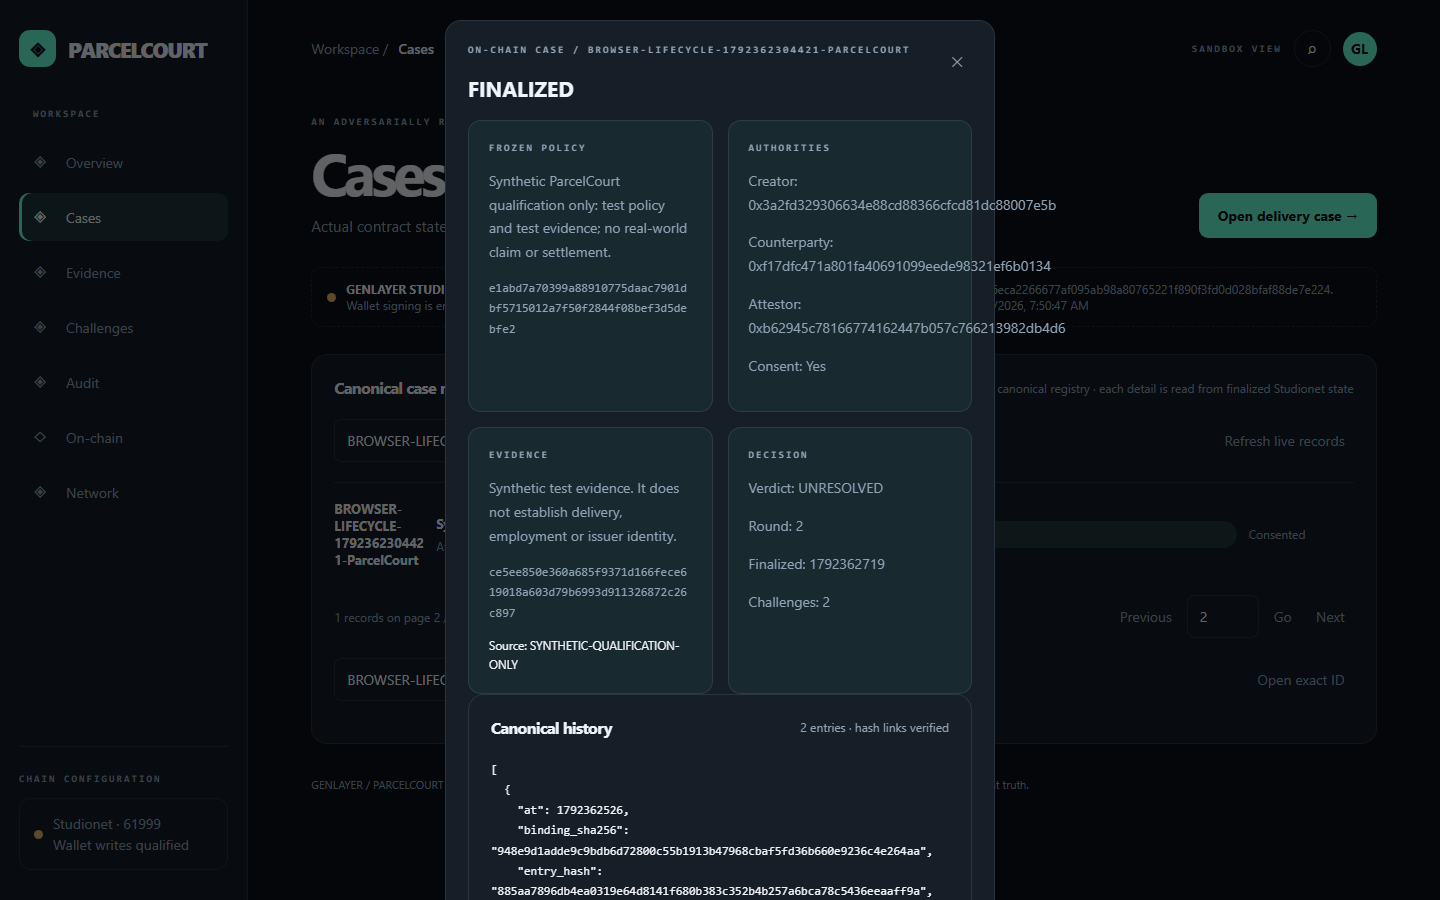
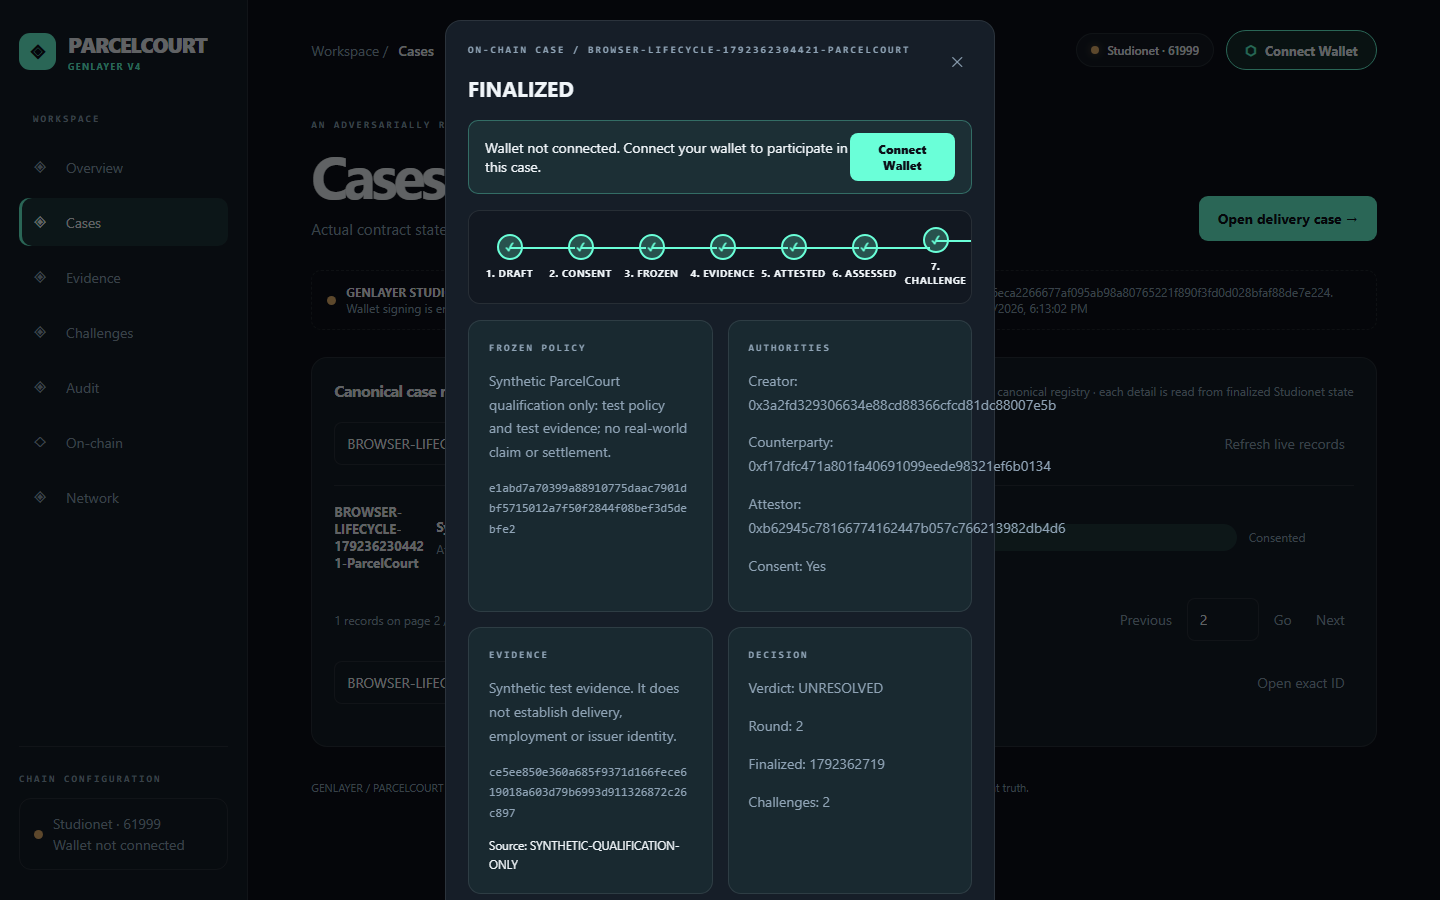
feat(landing): integrate Framer-inspired dark Bento landing page and telemetry

diff --git a/web/app.js b/web/app.js
@@ -277,6 +277,212 @@ function loadingNote(){
   if(live.error) return `<div class="blank" role="alert">Live read failed: ${esc(live.error)}. There is no simulated fallback.</div>`;
   return '';
 }
+
+function renderLandingPage(cases, counts) {
+  const safeEmpty = loadingNote();
+  const recentCases = cases.slice().reverse().slice(0, 4);
+
+  return `
+    <div class="landing-container">
+      <!-- Sawad / Framer Style Hero -->
+      <section class="landing-hero">
+        <div class="hero-badge">
+          <span class="signal-dot connected"></span>
+          <span>GenLayer Intelligent Contract · Studionet 61999</span>
+        </div>
+        <h1 class="hero-title">
+          Adversarial delivery & dispute resolution <em>powered by GenVM AI consensus</em>
+        </h1>
+        <p class="hero-desc">
+          An immutable multi-party arbitration ledger on GenLayer. Freeze service policies, commit cryptographic delivery evidence, and invoke non-deterministic LLM validator consensus with hash-linked finality.
+        </p>
+        <div class="hero-cta-group">
+          <button class="hero-cta-primary" id="landing-launch-workspace">
+            Open Case Workspace →
+          </button>
+          <button class="hero-cta-secondary" id="landing-wallet-trigger">
+            Connect Web3 Wallet
+          </button>
+          <button class="hero-cta-secondary" id="landing-view-all-cases">
+            View Live Registry (${counts.total})
+          </button>
+          <a class="hero-cta-link" href="https://explorer-studio.genlayer.com/address/${esc(ADDRESS)}" target="_blank" rel="noopener noreferrer">
+            Verified Contract ↗
+          </a>
+        </div>
+      </section>
+
+      <!-- Bento Grid System -->
+      <div class="bento-grid">
+        <div class="bento-card bento-col-4 bento-card-glow">
+          <div class="bento-header">
+            <span class="eyebrow">CANONICAL STATE</span>
+            <div class="bento-icon">⬡</div>
+          </div>
+          <div>
+            <div class="bento-val">${counts.total}</div>
+            <div class="bento-label">Recorded Cases</div>
+          </div>
+          <p class="bento-desc">Live on-chain delivery agreements stored immutably on Studionet storage slots.</p>
+        </div>
+
+        <div class="bento-card bento-col-4 bento-card-glow">
+          <div class="bento-header">
+            <span class="eyebrow">ACTIVE EVIDENCE</span>
+            <div class="bento-icon">⚡</div>
+          </div>
+          <div>
+            <div class="bento-val">${counts.frozen}</div>
+            <div class="bento-label">Evidence Workflows</div>
+          </div>
+          <p class="bento-desc">Cases with frozen delivery conditions, counterparty consents, or attested manifests.</p>
+        </div>
+
+        <div class="bento-card bento-col-4 bento-card-glow">
+          <div class="bento-header">
+            <span class="eyebrow">GENVM ROUNDS</span>
+            <div class="bento-icon">◈</div>
+          </div>
+          <div>
+            <div class="bento-val">${counts.assessed}</div>
+            <div class="bento-label">Consensus Assessed</div>
+          </div>
+          <p class="bento-desc">AI validator evaluations conducted under non-deterministic consensus principles.</p>
+        </div>
+
+        <!-- Bento Row 2: Architecture & Live Specimen -->
+        <div class="bento-card bento-col-7">
+          <div class="bento-header">
+            <span class="eyebrow">ADVERSARIAL MULTI-PARTY PROTOCOL</span>
+            <span class="pill" style="background:#6affd822;color:#6affd8">Role Enforced</span>
+          </div>
+          <div>
+            <h3 style="font-size:22px;margin:0 0 8px;letter-spacing:-.03em">Zero Trust Handoff Protocol</h3>
+            <p class="bento-desc">Every delivery requires explicit consent, immutable policy locking, courier proof attestation, and transparent AI consensus before fund execution.</p>
+          </div>
+          <div class="specimen-grid">
+            <div class="specimen-item">
+              <span>01. Creator</span>
+              <strong>Originating Merchant</strong>
+              <small>Deploys policy & stakes bounty</small>
+            </div>
+            <div class="specimen-item">
+              <span>02. Counterparty</span>
+              <strong>Consenting Recipient</strong>
+              <small>Explicitly locks agreement</small>
+            </div>
+            <div class="specimen-item">
+              <span>03. Attestor</span>
+              <strong>Designated Courier</strong>
+              <small>Commits cryptographic manifest</small>
+            </div>
+            <div class="specimen-item">
+              <span>04. GenVM Validators</span>
+              <strong>AI Consensus Nodes</strong>
+              <small>Evaluate prompt compliance</small>
+            </div>
+          </div>
+        </div>
+
+        <div class="bento-card bento-col-5">
+          <div class="bento-header">
+            <span class="eyebrow">CONTRACT TELEMETRY</span>
+            <span class="pill" style="background:#ffffff15;color:#ffffff">Studionet 61999</span>
+          </div>
+          <div>
+            <h3 style="font-size:20px;margin:0 0 10px;letter-spacing:-.03em">Verified Intelligent Contract</h3>
+            <p class="bento-desc">Python-powered smart contract deployed on GenLayer Studionet with deterministic hash verification.</p>
+          </div>
+          <div style="display:flex;flex-direction:column;gap:10px;background:color-mix(in srgb,var(--back) 60%,transparent);border:1px solid var(--border);border-radius:12px;padding:16px">
+            <div style="display:flex;justify-content:space-between;font-size:11px">
+              <span class="muted">Contract:</span>
+              <span class="mono" style="font-weight:700;color:var(--accent)">${shorten(ADDRESS)}</span>
+            </div>
+            <div style="display:flex;justify-content:space-between;font-size:11px">
+              <span class="muted">Chain ID:</span>
+              <span class="mono">61999 (0xF22F)</span>
+            </div>
+            <div style="display:flex;justify-content:space-between;font-size:11px">
+              <span class="muted">RPC:</span>
+              <span class="mono">studio.genlayer.com/api</span>
+            </div>
+            <div style="display:flex;justify-content:space-between;font-size:11px">
+              <span class="muted">Source Hash:</span>
+              <span class="mono">${(window.CONTRACT_SOURCE_SHA256||'302a0db3').slice(0, 16)}…</span>
+            </div>
+          </div>
+        </div>
+
+        <!-- Bento Row 3: 4 Step Pipeline -->
+        <div class="bento-card bento-col-3">
+          <div class="pipeline-step-badge">Phase 01</div>
+          <h4 style="margin:0 0 8px;font-size:16px">Freeze Policy</h4>
+          <p class="bento-desc">Contract rules, timeline constraints, and delivery parameters are immutably hashed and frozen into contract storage.</p>
+        </div>
+
+        <div class="bento-card bento-col-3">
+          <div class="pipeline-step-badge">Phase 02</div>
+          <h4 style="margin:0 0 8px;font-size:16px">Attest Evidence</h4>
+          <p class="bento-desc">Designated courier commits authenticated delivery logs, photo SHA-256 hashes, and GPS location timestamps.</p>
+        </div>
+
+        <div class="bento-card bento-col-3">
+          <div class="pipeline-step-badge">Phase 03</div>
+          <h4 style="margin:0 0 8px;font-size:16px">GenVM Consensus</h4>
+          <p class="bento-desc">Decentralized validators execute non-deterministic LLM principle prompts to render comparative verdict agreements.</p>
+        </div>
+
+        <div class="bento-card bento-col-3">
+          <div class="pipeline-step-badge">Phase 04</div>
+          <h4 style="margin:0 0 8px;font-size:16px">Challenge Window</h4>
+          <p class="bento-desc">Parties hold a dispute grace period before state finalization triggers automated escrow distribution.</p>
+        </div>
+
+        <!-- Bento Row 4: Recent Real Cases on Chain -->
+        <div class="bento-card bento-col-12">
+          <div class="bento-header">
+            <div>
+              <span class="eyebrow">STUDIONET CANONICAL LEDGER</span>
+              <h3 style="font-size:20px;margin:4px 0 0">Recent Verified Contract Cases</h3>
+            </div>
+            <button class="cta" id="landing-cta-view-registry">Explore All ${counts.total} Cases →</button>
+          </div>
+          ${safeEmpty}
+          <div style="display:grid;grid-template-columns:repeat(auto-fit,minmax(280px,1fr));gap:16px;margin-top:10px">
+            ${recentCases.length ? recentCases.map(c => `
+              <div class="recent-case-card" role="button" tabindex="0" data-live-case="${esc(c.id)}">
+                <div class="case-card-head">
+                  <span class="mono" style="font-weight:800;color:var(--accent)">${esc(c.id)}</span>
+                  ${badge(c)}
+                </div>
+                <div class="case-card-rule">${esc(c.rule ? (c.rule.slice(0, 95) + (c.rule.length > 95 ? '…' : '')) : 'Standard handoff policy')}</div>
+                <div class="case-card-meta">
+                  <span>Attestor: <span class="mono">${esc(shorten(c.attestor))}</span></span>
+                  <span>Rounds: ${esc(c.round || 0)}</span>
+                </div>
+              </div>
+            `).join('') : '<div class="blank">No live cases recorded yet. Deploy your first case via the On-Chain workspace.</div>'}
+          </div>
+        </div>
+
+        <!-- Bento Row 5: Framer Bottom CTA Box -->
+        <div class="bento-col-12">
+          <div class="framer-cta-card">
+            <div>
+              <h2>Start Arbitrating On GenLayer</h2>
+              <p>Connect your wallet to sign multi-party transactions, deploy contract instances, or submit cryptographically signed delivery attestations.</p>
+            </div>
+            <div style="display:flex;gap:14px;flex-wrap:wrap">
+              <button class="hero-cta-primary" id="landing-cta-launch">Launch Workspace</button>
+              <button class="hero-cta-secondary" id="landing-cta-connect">Connect Wallet</button>
+            </div>
+          </div>
+        </div>
+      </div>
+    </div>
+  `;
+}
+
 const refreshButton = `<button id="live-refresh" class="tab">Refresh live records</button>`;
 function render(name){
   if(name==='On-chain') return chainUI.render();
@@ -284,7 +490,7 @@ function render(name){
   const safeEmpty = loadingNote();
   const records = cases.filter(x=>(x.id+' '+(x.status||'')+' '+(x.rule||'')).toLowerCase().includes(activeSearch.toLowerCase()));
   const counts={total:cases.length,frozen:cases.filter(x=>['FROZEN','EVIDENCE_LOCKED','ATTESTED'].includes(x.status)).length,assessed:cases.filter(x=>x.round>0).length,challenged:cases.filter(x=>(x.challenges||[]).length>0).length};
-  if(name==='Overview') return progress()+`<div class="stats">${[['Recorded cases',counts.total],['Evidence workflow',counts.frozen],['Consensus assessed',counts.assessed],['Contested cases',counts.challenged]].map(([k,v])=>`<div class="stat"><div class="eyebrow">${esc(k)}</div><div class="value">${v}</div><small>Live, read-only count</small></div>`).join('')}</div>`+`<div class="columns">${panel('Latest actual contract cases',safeEmpty+renderCases(cases.slice().reverse().slice(0,10)),`${cases.length} loaded on page ${live.page+1} of ${Math.max(1,Math.ceil(live.total/live.pageSize))} · ${live.total} canonical cases`)}${panel('Contract and execution integrity',`<div class="risk"><div class="risk-item"><div class="eyebrow">CONTRACT</div><p class="mono">${esc(ADDRESS)}</p></div><div class="risk-item"><div class="eyebrow">FINALITY RULE</div><p>Consensus agreement alone is not execution success. A verified action requires a successful GenVM receipt and exact on-chain state readback.</p></div><div class="risk-item"><div class="eyebrow">EXTERNAL EVIDENCE</div><p>A signed attestor statement proves the wallet making the claim, not independently verified issuer identity or document truth.</p></div></div>`,'Steward integrity checks')}</div>`+`<div class="toolbar" style="margin-top:16px">${refreshButton}<button id="open-onchain" class="cta">Open on-chain case workspace</button></div>`;
+  if(name==='Overview') return renderLandingPage(cases, counts);
   if(['Cases','Claims'].includes(name)) return progress()+panel('Canonical case registry',`<div class="toolbar registry-tools"><input id="case-filter" class="input" aria-label="Search current page of actual cases" placeholder="Search this page by ID, status or frozen rule" value="${esc(activeSearch)}"/>${refreshButton}</div>${safeEmpty}<div id="filtered-cases">${renderCases(records,'No matching cases on this page.')}</div><div class="toolbar registry-pages"><span class="hint">${cases.length} records on page ${live.page+1} / ${Math.max(1,Math.ceil(live.total/live.pageSize))} · ${live.total} total on chain</span><div><button id="cases-prev" class="tab" ${live.page===0?'disabled':''}>Previous</button><input id="case-page" class="input page-input" type="number" min="1" max="${Math.max(1,Math.ceil(live.total/live.pageSize))}" value="${live.page+1}" aria-label="Page number"/><button id="cases-go" class="tab">Go</button><button id="cases-next" class="tab" ${live.complete?'disabled':''}>Next</button></div></div><div class="toolbar registry-tools"><input id="direct-case-id" class="input" placeholder="Exact case ID (including another page)" aria-label="Find exact case ID"/><button id="direct-case-search" class="tab">Open exact ID</button></div>`,'Paged canonical registry · each detail is read from finalized Studionet state');
   if(['Evidence','Policies'].includes(name)) return progress()+panel(name==='Evidence'?'Attested evidence registry':'Frozen policies',safeEmpty+(cases.length?`<div class="case-list">${cases.map(r=>`<div class="case-row" role="button" tabindex="0" data-live-case="${esc(r.id)}"><b>${esc(r.id)}</b><span><b>${esc(name==='Evidence'?(r.evidence_hash||'No locked evidence'):(r.rule_hash||'Unfrozen rule'))}</b><small class="desc">Source ${esc(r.source_ref||'No attested source')} · Attestor ${esc(shorten(r.attestor))}</small></span>${badge(r)}<small>${esc(r.attested?'Attested':'Not attested')}</small></div>`).join('')}</div>`:renderCases([])),`Only contract-recorded ${name.toLowerCase()}`)+`<div class="toolbar" style="margin-top:16px">${refreshButton}</div>`;
   if(name==='Challenges') return progress()+panel('Challenge ledger',safeEmpty+(cases.filter(r=>(r.challenges||[]).length>0).length?`<div class="case-list">${cases.filter(r=>(r.challenges||[]).length>0).map(r=>`<div class="case-row" role="button" tabindex="0" data-live-case="${esc(r.id)}"><b>${esc(r.id)}</b><span><b>${esc((r.challenges||[]).length)} submitted challenge(s)</b><small class="desc">Immutable challenge hash ${esc(r.challenge_hash||'')}</small></span>${badge(r)}</div>`).join('')}</div>`:'<div class="blank">No submitted challenge records yet.</div>'),'Two parties have separate challenge slots')+`<div class="toolbar" style="margin-top:16px">${refreshButton}</div>`;
@@ -327,6 +533,9 @@ function nav(name,doRefresh=true){
   page=name;
   document.querySelectorAll('nav button').forEach(e=>e.classList.toggle('active',e.dataset.page===name));
   $('page-name').textContent=name;
+  if ($('hero-area')) {
+    $('hero-area').style.display = name === 'Overview' ? 'none' : 'flex';
+  }
   $('hero-title').textContent=name==='Overview'?APP.tagline:name;
   $('hero-subtitle').textContent=name==='Overview'?APP.subtitle:'Actual contract state and accountable evidence';
   $('main-content').innerHTML=render(name);
@@ -397,6 +606,26 @@ function bind(){
   $('open-onchain')?.addEventListener('click',()=>nav('On-chain'));
   $('probe-button')?.addEventListener('click',()=>void probe());
   $('case-filter')?.addEventListener('input',e=>{activeSearch=e.target.value;const filtered=live.cases.filter(r=>(r.id+' '+r.status+' '+r.rule).toLowerCase().includes(activeSearch.toLowerCase()));$('filtered-cases').innerHTML=renderCases(filtered);document.querySelectorAll('#filtered-cases [data-live-case]').forEach(n=>n.addEventListener('click',()=>void detail(n.dataset.liveCase)))});
+
+  // Framer / Sawad Landing Page CTA bindings
+  $('landing-launch-workspace')?.addEventListener('click', () => nav('On-chain'));
+  $('landing-cta-launch')?.addEventListener('click', () => nav('On-chain'));
+  $('landing-view-all-cases')?.addEventListener('click', () => nav('Cases'));
+  $('landing-cta-view-registry')?.addEventListener('click', () => nav('Cases'));
+  const triggerWallet = async () => {
+    const ws = getWalletState();
+    if (!ws.address) {
+      try {
+        await connectGlobalWallet();
+      } catch (err) {
+        alert(err?.message || 'Connection failed');
+      }
+    } else {
+      openWalletModal();
+    }
+  };
+  $('landing-wallet-trigger')?.addEventListener('click', triggerWallet);
+  $('landing-cta-connect')?.addEventListener('click', triggerWallet);
 }
 document.querySelectorAll('nav button').forEach(e=>e.addEventListener('click',()=>nav(e.dataset.page)));
 $('primary-action')?.addEventListener('click',()=>nav('On-chain'));

diff --git a/web/styles.css b/web/styles.css
@@ -73,3 +73,69 @@ html,body{max-width:100%;overflow-x:hidden}.main,.surface,.detail-box{min-width:
 .role-badge{font-weight:800;letter-spacing:.08em;text-transform:uppercase;color:var(--accent)}
 .quick-action-btn{padding:8px 14px;border-radius:8px;background:var(--accent);color:var(--back);font-weight:800;font-size:12px;border:none;cursor:pointer}
 .quick-action-btn:hover{opacity:.9}
+
+/* === Framer / Sawad-Inspired Bento Landing Page === */
+.landing-container{display:flex;flex-direction:column;gap:56px;max-width:1440px;margin:0 auto;padding-bottom:60px}
+.landing-hero{display:flex;flex-direction:column;align-items:flex-start;gap:24px;padding:32px 0 20px}
+.hero-badge{display:inline-flex;align-items:center;gap:10px;padding:8px 16px;border-radius:30px;background:color-mix(in srgb,var(--accent) 10%,transparent);border:1px solid color-mix(in srgb,var(--accent) 30%,transparent);color:var(--accent);font-size:12px;font-weight:700;letter-spacing:.08em;text-transform:uppercase}
+.hero-title{font-size:clamp(40px,5vw,72px);font-weight:900;letter-spacing:-.06em;line-height:1.02;margin:0;color:var(--text);max-width:980px}
+.hero-title em{font-style:normal;background:linear-gradient(135deg,var(--accent) 0%,#a8ffea 100%);-webkit-background-clip:text;-webkit-text-fill-color:transparent}
+.hero-desc{font-size:clamp(16px,1.4vw,20px);color:var(--muted);line-height:1.65;margin:0;max-width:760px;font-weight:400}
+.hero-cta-group{display:flex;align-items:center;gap:16px;flex-wrap:wrap;margin-top:8px}
+.hero-cta-primary{display:inline-flex;align-items:center;gap:10px;padding:16px 28px;border-radius:12px;background:var(--accent);color:var(--back);font-weight:800;font-size:15px;text-decoration:none;cursor:pointer;border:none;transition:all .2s ease;box-shadow:0 8px 24px color-mix(in srgb,var(--accent) 30%,transparent)}
+.hero-cta-primary:hover{transform:translateY(-2px);box-shadow:0 12px 32px color-mix(in srgb,var(--accent) 45%,transparent)}
+.hero-cta-secondary{display:inline-flex;align-items:center;gap:8px;padding:15px 24px;border-radius:12px;background:color-mix(in srgb,var(--panel) 80%,transparent);border:1px solid var(--border);color:var(--text);font-weight:700;font-size:14px;cursor:pointer;transition:all .2s ease}
+.hero-cta-secondary:hover{background:var(--panel);border-color:var(--accent);color:var(--text)}
+.hero-cta-link{color:var(--muted);font-size:13px;text-decoration:underline;font-weight:600;padding:8px 12px}
+.hero-cta-link:hover{color:var(--accent)}
+
+/* Bento Grid System */
+.bento-grid{display:grid;grid-template-columns:repeat(12,minmax(0,1fr));gap:20px}
+.bento-col-12{grid-column:span 12}
+.bento-col-8{grid-column:span 8}
+.bento-col-7{grid-column:span 7}
+.bento-col-6{grid-column:span 6}
+.bento-col-5{grid-column:span 5}
+.bento-col-4{grid-column:span 4}
+.bento-col-3{grid-column:span 3}
+
+.bento-card{position:relative;background:linear-gradient(180deg,color-mix(in srgb,var(--text) 3%,transparent) 0%,transparent 100%),var(--panel);border:1px solid var(--border);border-radius:22px;padding:30px;display:flex;flex-direction:column;justify-content:space-between;gap:20px;transition:all .25s ease;overflow:hidden}
+.bento-card:hover{border-color:color-mix(in srgb,var(--accent) 40%,transparent);box-shadow:0 16px 40px #00000066;transform:translateY(-2px)}
+.bento-card-glow::before{content:'';position:absolute;top:-80px;right:-80px;width:180px;height:180px;border-radius:50%;background:radial-gradient(circle,color-mix(in srgb,var(--accent) 18%,transparent) 0%,transparent 70%);pointer-events:none}
+.bento-header{display:flex;justify-content:space-between;align-items:center;gap:12px}
+.bento-icon{width:42px;height:42px;border-radius:12px;background:color-mix(in srgb,var(--accent) 12%,transparent);border:1px solid color-mix(in srgb,var(--accent) 30%,transparent);color:var(--accent);display:grid;place-items:center;font-size:20px;font-weight:900}
+.bento-val{font-size:clamp(36px,3.8vw,56px);font-weight:900;letter-spacing:-.06em;color:var(--text);line-height:1}
+.bento-label{font-size:16px;font-weight:800;letter-spacing:-.02em;color:var(--text);margin-top:8px}
+.bento-desc{color:var(--muted);font-size:13px;line-height:1.6;margin:0}
+
+/* Specimen Card Inside Bento */
+.specimen-grid{display:grid;grid-template-columns:repeat(2,minmax(0,1fr));gap:16px;background:color-mix(in srgb,var(--back) 60%,transparent);border:1px solid var(--border);border-radius:14px;padding:20px;margin-top:14px}
+.specimen-item span{display:block;font-size:10px;font-weight:700;color:var(--muted);letter-spacing:.15em;text-transform:uppercase}
+.specimen-item strong{display:block;font-size:14px;color:var(--text);margin-top:4px}
+.specimen-item small{color:var(--muted);font-size:11px;font-family:ui-monospace,monospace}
+
+/* Step Pipeline Cards */
+.pipeline-step-badge{font-size:11px;font-weight:900;letter-spacing:.15em;color:var(--accent);text-transform:uppercase;margin-bottom:8px}
+
+/* Live Case Preview Bento Cards */
+.recent-case-card{cursor:pointer;background:color-mix(in srgb,var(--back) 50%,transparent);border:1px solid var(--border);border-radius:14px;padding:20px;display:flex;flex-direction:column;gap:12px;transition:all .2s ease}
+.recent-case-card:hover{border-color:var(--accent);background:color-mix(in srgb,var(--accent) 4%,transparent)}
+.case-card-head{display:flex;justify-content:space-between;align-items:center}
+.case-card-rule{font-size:13px;font-weight:700;color:var(--text);line-height:1.5}
+.case-card-meta{display:flex;justify-content:space-between;align-items:center;font-size:11px;color:var(--muted)}
+
+/* Framer CTA Card */
+.framer-cta-card{background:linear-gradient(135deg,color-mix(in srgb,var(--accent) 15%,transparent) 0%,color-mix(in srgb,var(--panel) 90%,transparent) 100%),var(--panel);border:1px solid color-mix(in srgb,var(--accent) 40%,transparent);border-radius:24px;padding:48px 36px;display:flex;justify-content:space-between;align-items:center;gap:30px;flex-wrap:wrap}
+.framer-cta-card h2{font-size:clamp(28px,3vw,44px);letter-spacing:-.05em;margin:0 0 10px;color:var(--text)}
+.framer-cta-card p{color:var(--muted);font-size:15px;margin:0;max-width:600px}
+
+@media(max-width:1050px){
+  .bento-col-8,.bento-col-7,.bento-col-6,.bento-col-5,.bento-col-4,.bento-col-3{grid-column:span 6}
+  .bento-col-12{grid-column:span 12}
+}
+@media(max-width:650px){
+  .bento-col-8,.bento-col-7,.bento-col-6,.bento-col-5,.bento-col-4,.bento-col-3{grid-column:span 12}
+  .hero-title{font-size:36px}
+  .specimen-grid{grid-template-columns:1fr}
+  .framer-cta-card{padding:28px 20px}
+}

diff --git a/web/index.html b/web/index.html
@@ -68,7 +68,7 @@
         </div>
       </div>
 
-      <div class="hero">
+      <div class="hero" id="hero-area">
         <div>
           <div class="eyebrow">An adversarially reviewable handoff ledger</div>
           <h1 id="hero-title">Delivery evidence and party review</h1>
